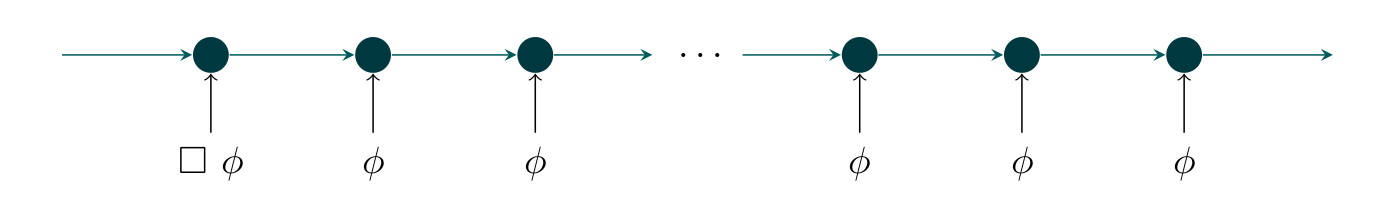
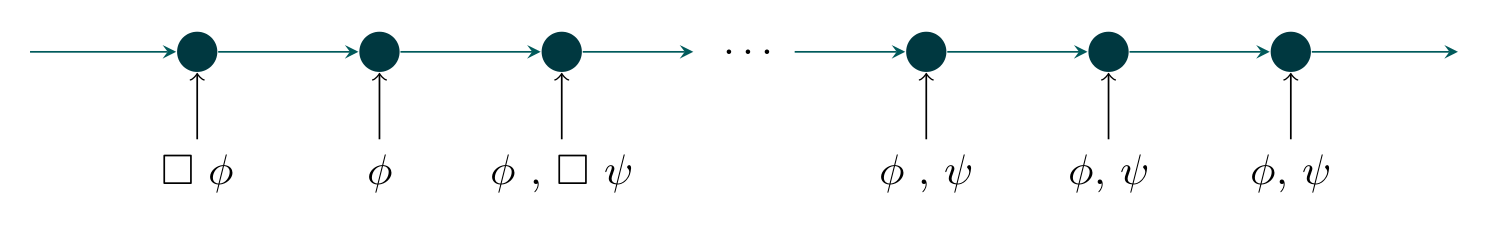
Web page

diff --git a/observers.html b/observers.html
@@ -21,6 +21,33 @@
         <section class="main">
           <section class="articles">
             <article>
+              <h2>A Brief Review on Temporal Logic Models </h2>
+              <br>
+              <p>
+                However, it is necessary to define the semantics of these operators, for a breaf introduction to Temporal Logic you can see <a href="https://onlinelibrary.wiley.com/doi/book/10.1002/9781119991472">Fisher</a>. Note the following finite model of time for  the ‘next in the future’ operator, <code>0</code>, provides us with the ability to represent properties that are true at the next moments in time.
+              </p>
+                <br>
+                <img src="next.png" alt="model of time for the ‘always in the future’ operator" style="max-width: 75%;"  class="center" />
+                <br>
+              <p>
+                Analogous, the following finite model of time for  the ‘eventually in the future’ operator, <code>E</code>, provides us with the ability to represent properties that are true at the some point in time from now.
+              </p>
+                <img src="eventually.png" alt="model of time for the ‘always in the future’ operator" style="max-width: 75%;" class="center" />
+                <br>
+              <p>
+                Alike, the following finite model of time for  the ‘always in the future’ operator, <code>[]</code>, provides us with the ability to represent properties that are true at all moments in time from now on.
+              </p>
+                <img src="always.png" alt="model of time for the ‘always in the future’ operator" style="max-width: 75%;" class="center" />
+                <br>
+              <p>
+                Likewise, there are different patterns (combinations of a temporal operator) that are remarkable, take a look at the following models:
+For this reason the operations <code>heredity</code> and <code>verification</code> were  defined
+              </p>
+              <br>
+              <img src="remarkable1.png" alt="model of time for the ‘always in the future’ operator" style="max-width: 75%;" class="center" />
+              <br>
+              <img src="remarkable2.png" alt="model of time for the ‘always in the future’ operator" style="max-width: 75%;" class="center" />
+              <br>
               <h2>Observers</h2>
               <br>
               <p>
@@ -104,15 +131,8 @@
 
               </section>
               <br>
-              <p>
-                However, it is necessary to define the semantics of these operators, for a breaf introduction to Temporal Logic you can see <a href="https://onlinelibrary.wiley.com/doi/book/10.1002/9781119991472">Fisher</a>. Note the following finite model of time for  the ‘always in the future’ operator, <code>[]</code>, provides us with the ability to represent properties that are true at all moments in time from now on.
-                <br>
-                <img src="always.png" alt="model of time for the ‘always in the future’ operator" style="max-width: 100%;" />
-                <i>GRAFICA PARA LOS TRES OPERADORES Y AL FINAL EL CASO ESPECIAL DE []O</i>
-                <br>
-                For this reason the operations <code>heredity</code> and <code>verification</code> were  defined
-              </p>
-              <br>
+              
+
               <pre><code>
       op heredity       : Ltl Ltl                    -> Ltl .
       op verification   : Ltl Configuration          -> Ltl  .

diff --git a/style.css b/style.css
@@ -1,3 +1,9 @@
+.center {
+  display: block;
+  margin-left: auto;
+  margin-right: auto;
+  width: 50%;
+}
 * {
   margin: 0;
   padding: 0;

diff --git a/Figures/always.tex b/Figures/always.tex
@@ -1,0 +1,56 @@
+\documentclass[tikz,border=10pt]{standalone}
+
+%\documentclass{article}
+\usepackage[utf8]{inputenc}
+\usepackage{tikz}
+\usetikzlibrary{arrows}
+\usepackage{ amsmath, amssymb }
+\definecolor{mio}{RGB}{0, 56, 64}
+\definecolor{mio1}{RGB}{0, 90, 91}
+
+\begin{document}
+
+
+    \begin{tikzpicture}[
+squarednode/.style={circle, minimum size=.05mm, fill=mio},
+]
+%Nodes
+\node[squarednode]      (Mi)    at (0,0) {};
+\node[squarednode]      (Mi+1)  at (1.5,0) {};
+\node[squarednode]      (Mi+2)  at (3,0) {};
+\node      (Mi+3)  at (4.5,0) {\dotso};
+\node[squarednode]      (Mi+4)  at (6,0) {};
+\node[squarednode]      (Mi+5)  at (7.5,0) {};
+\node[squarednode]      (Mi+6)  at (9,0) {};
+
+\node (a) at  (0, -1) {$ \square \  \phi $};
+\node (b) at  (1.5, -1) {$ \phi $};
+\node (c) at  (3, -1) {$ \phi $ , $\square \ \psi$};
+\node (g) at  (6, -1) {$ \phi $ , $\psi$};
+\node (h) at  (7.5, -1) {$ \phi $, $\psi$};
+\node (i) at  (9, -1) {$ \phi $, $\psi$};
+
+\node (d) at  (-1.5, 0) {};
+\node (e) at  (10.5, 0) {};
+
+\draw[->,>=stealth, mio1] (d.east) -- (Mi.west);
+\draw[->,>=stealth,mio1] (Mi.east) -- (Mi+1.west);
+\draw[->,>=stealth,mio1] (Mi+1.east) -- (Mi+2.west);
+\draw[->,>=stealth,mio1] (Mi+2.east) -- (Mi+3.west);
+\draw[->,>=stealth,mio1] (Mi+3.east) -- (Mi+4.west);
+\draw[->,>=stealth,mio1] (Mi+4.east) -- (Mi+5);
+\draw[->,>=stealth,mio1] (Mi+5.east) -- (Mi+6);
+\draw[->,>=stealth,mio1] (Mi+6.east) -- (e);
+
+\draw[->] (a) -- (Mi);
+\draw[->] (b) -- (Mi+1);
+\draw[->] (c) -- (Mi+2);
+\draw[->] (g) -- (Mi+4);
+\draw[->] (h) -- (Mi+5);
+\draw[->] (i) -- (Mi+6);
+
+\end{tikzpicture}
+
+
+
+\end{document}

diff --git a/Figures/remarkable1.tex b/Figures/remarkable1.tex
@@ -1,0 +1,56 @@
+\documentclass[tikz,border=10pt]{standalone}
+
+%\documentclass{article}
+\usepackage[utf8]{inputenc}
+\usepackage{tikz}
+\usetikzlibrary{arrows}
+\usepackage{ amsmath, amssymb }
+\definecolor{mio}{RGB}{0, 56, 64}
+\definecolor{mio1}{RGB}{0, 90, 91}
+
+\begin{document}
+
+
+    \begin{tikzpicture}[
+squarednode/.style={circle, minimum size=.05mm, fill=mio},
+]
+%Nodes
+\node[squarednode]      (Mi)    at (0,0) {};
+\node[squarednode]      (Mi+1)  at (1.5,0) {};
+\node[squarednode]      (Mi+2)  at (3,0) {};
+\node      (Mi+3)  at (4.5,0) {\dotso};
+\node[squarednode]      (Mi+4)  at (6,0) {};
+\node[squarednode]      (Mi+5)  at (7.5,0) {};
+\node[squarednode]      (Mi+6)  at (9,0) {};
+
+\node (a) at  (0, -1) {$ \square \ (\bigcirc \  \phi) $};
+
+\node (c) at  (3, -1) {$ \phi $ };
+\node (g) at  (6, -1) {$ \phi $ };
+\node (h) at  (7.5, -1) {$ \phi $};
+\node (i) at  (9, -1) {$ \phi $};
+
+\node (d) at  (-1.5, 0) {};
+\node (e) at  (10.5, 0) {};
+
+\draw[->,>=stealth, mio1] (d.east) -- (Mi.west);
+\draw[->,>=stealth,mio1] (Mi.east) -- (Mi+1.west);
+\draw[->,>=stealth,mio1] (Mi+1.east) -- (Mi+2.west);
+\draw[->,>=stealth,mio1] (Mi+2.east) -- (Mi+3.west);
+\draw[->,>=stealth,mio1] (Mi+3.east) -- (Mi+4.west);
+\draw[->,>=stealth,mio1] (Mi+4.east) -- (Mi+5);
+\draw[->,>=stealth,mio1] (Mi+5.east) -- (Mi+6);
+\draw[->,>=stealth,mio1] (Mi+6.east) -- (e);
+
+\draw[->] (a) -- (Mi);
+
+\draw[->] (c) -- (Mi+2);
+\draw[->] (g) -- (Mi+4);
+\draw[->] (h) -- (Mi+5);
+\draw[->] (i) -- (Mi+6);
+
+\end{tikzpicture}
+
+
+
+\end{document}

diff --git a/Figures/next.tex b/Figures/next.tex
@@ -1,0 +1,52 @@
+\documentclass[tikz,border=10pt]{standalone}
+
+%\documentclass{article}
+\usepackage[utf8]{inputenc}
+\usepackage{tikz}
+\usetikzlibrary{arrows}
+\usepackage{ amsmath, amssymb }
+\definecolor{mio}{RGB}{0, 56, 64}
+\definecolor{mio1}{RGB}{0, 90, 91}
+
+\begin{document}
+
+
+    \begin{tikzpicture}[
+squarednode/.style={circle, minimum size=.05mm, fill=mio},
+]
+%Nodes
+\node[squarednode]      (Mi)    at (0,0) {};
+\node[squarednode]      (Mi+1)  at (1.5,0) {};
+\node[squarednode]      (Mi+2)  at (3,0) {};
+\node      (Mi+3)  at (4.5,0) {\dotso};
+\node[squarednode]      (Mi+4)  at (6,0) {};
+\node[squarednode]      (Mi+5)  at (7.5,0) {};
+\node[squarednode]      (Mi+6)  at (9,0) {};
+
+\node (a) at  (0, -1) {$ \bigcirc \  \phi $};
+\node (g) at  (1.5, -1) {$ \phi $};
+\node (b) at  (6, -1) {$ \bigcirc \bigcirc \  \psi $};
+\node (c) at  (9, -1) {$ \psi $};
+
+\node (d) at  (-1.5, 0) {};
+\node (e) at  (10.5, 0) {};
+
+\draw[->,>=stealth, mio1] (d.east) -- (Mi.west);
+\draw[->,>=stealth,mio1] (Mi.east) -- (Mi+1.west);
+\draw[->,>=stealth,mio1] (Mi+1.east) -- (Mi+2.west);
+\draw[->,>=stealth,mio1] (Mi+2.east) -- (Mi+3.west);
+\draw[->,>=stealth,mio1] (Mi+3.east) -- (Mi+4.west);
+\draw[->,>=stealth,mio1] (Mi+4.east) -- (Mi+5);
+\draw[->,>=stealth,mio1] (Mi+5.east) -- (Mi+6);
+\draw[->,>=stealth,mio1] (Mi+6.east) -- (e);
+
+\draw[->] (a) -- (Mi) ;
+\draw[->] (g) -- (Mi+1);
+\draw[->] (b) -- (Mi+4) ;
+\draw[->] (c) -- (Mi+6);
+
+\end{tikzpicture}
+
+
+
+\end{document}

diff --git a/Figures/remarkable2.tex b/Figures/remarkable2.tex
@@ -1,0 +1,53 @@
+\documentclass[tikz,border=10pt]{standalone}
+
+%\documentclass{article}
+\usepackage[utf8]{inputenc}
+\usepackage{tikz}
+\usetikzlibrary{arrows}
+\usepackage{ amsmath, amssymb }
+\definecolor{mio}{RGB}{0, 56, 64}
+\definecolor{mio1}{RGB}{0, 90, 91}
+
+\begin{document}
+
+
+    \begin{tikzpicture}[
+squarednode/.style={circle, minimum size=.05mm, fill=mio},
+]
+%Nodes
+\node[squarednode]      (Mi)    at (0,0) {};
+\node[squarednode]      (Mi+1)  at (1.5,0) {};
+\node[squarednode]      (Mi+2)  at (3,0) {};
+\node      (Mi+3)  at (4.5,0) {\dotso};
+\node[squarednode]      (Mi+4)  at (6,0) {};
+\node[squarednode]      (Mi+5)  at (7.5,0) {};
+\node[squarednode]      (Mi+6)  at (9,0) {};
+
+\node (a) at  (0, -1) {$ \diamondsuit \  ( \bigcirc \ \gamma$) };
+\node[red] (g) at  (1.5, -1) {$ \gamma $};
+\node (c) at  (7.5, -1) {$ \gamma $};
+
+
+
+\node (d) at  (-1.5, 0) {};
+\node (e) at  (10.5, 0) {};
+
+\draw[->,>=stealth, mio1] (d.east) -- (Mi.west);
+\draw[->,>=stealth,mio1] (Mi.east) -- (Mi+1.west);
+\draw[->,>=stealth,mio1] (Mi+1.east) -- (Mi+2.west);
+\draw[->,>=stealth,mio1] (Mi+2.east) -- (Mi+3.west);
+\draw[->,>=stealth,mio1] (Mi+3.east) -- (Mi+4.west);
+\draw[->,>=stealth,mio1] (Mi+4.east) -- (Mi+5);
+\draw[->,>=stealth,mio1] (Mi+5.east) -- (Mi+6);
+\draw[->,>=stealth,mio1] (Mi+6.east) -- (e);
+
+\draw[->] (a) -- (Mi) ;
+\draw[->,red] (g) -- (Mi+1);
+\draw[->] (c) -- (Mi+5);
+
+\end{tikzpicture}
+
+
+
+\end{document}
+  

diff --git a/Figures/eventually.tex b/Figures/eventually.tex
@@ -1,0 +1,52 @@
+\documentclass[tikz,border=10pt]{standalone}
+
+%\documentclass{article}
+\usepackage[utf8]{inputenc}
+\usepackage{tikz}
+\usetikzlibrary{arrows}
+\usepackage{ amsmath, amssymb }
+\definecolor{mio}{RGB}{0, 56, 64}
+\definecolor{mio1}{RGB}{0, 90, 91}
+
+\begin{document}
+
+
+    \begin{tikzpicture}[
+squarednode/.style={circle, minimum size=.05mm, fill=mio},
+]
+%Nodes
+\node[squarednode]      (Mi)    at (0,0) {};
+\node[squarednode]      (Mi+1)  at (1.5,0) {};
+\node[squarednode]      (Mi+2)  at (3,0) {};
+\node      (Mi+3)  at (4.5,0) {\dotso};
+\node[squarednode]      (Mi+4)  at (6,0) {};
+\node[squarednode]      (Mi+5)  at (7.5,0) {};
+\node[squarednode]      (Mi+6)  at (9,0) {};
+
+\node (a) at  (0, -1) {$ \diamondsuit \  \phi$ , $ \diamondsuit \ \psi $};
+\node (g) at  (6, -1) {$ \psi $};
+\node (c) at  (9, -1) {$ \phi $};
+
+
+
+\node (d) at  (-1.5, 0) {};
+\node (e) at  (10.5, 0) {};
+
+\draw[->,>=stealth, mio1] (d.east) -- (Mi.west);
+\draw[->,>=stealth,mio1] (Mi.east) -- (Mi+1.west);
+\draw[->,>=stealth,mio1] (Mi+1.east) -- (Mi+2.west);
+\draw[->,>=stealth,mio1] (Mi+2.east) -- (Mi+3.west);
+\draw[->,>=stealth,mio1] (Mi+3.east) -- (Mi+4.west);
+\draw[->,>=stealth,mio1] (Mi+4.east) -- (Mi+5);
+\draw[->,>=stealth,mio1] (Mi+5.east) -- (Mi+6);
+\draw[->,>=stealth,mio1] (Mi+6.east) -- (e);
+
+\draw[->] (a) -- (Mi) ;
+\draw[->] (g) -- (Mi+4);
+\draw[->] (c) -- (Mi+6);
+
+\end{tikzpicture}
+
+
+
+\end{document}
